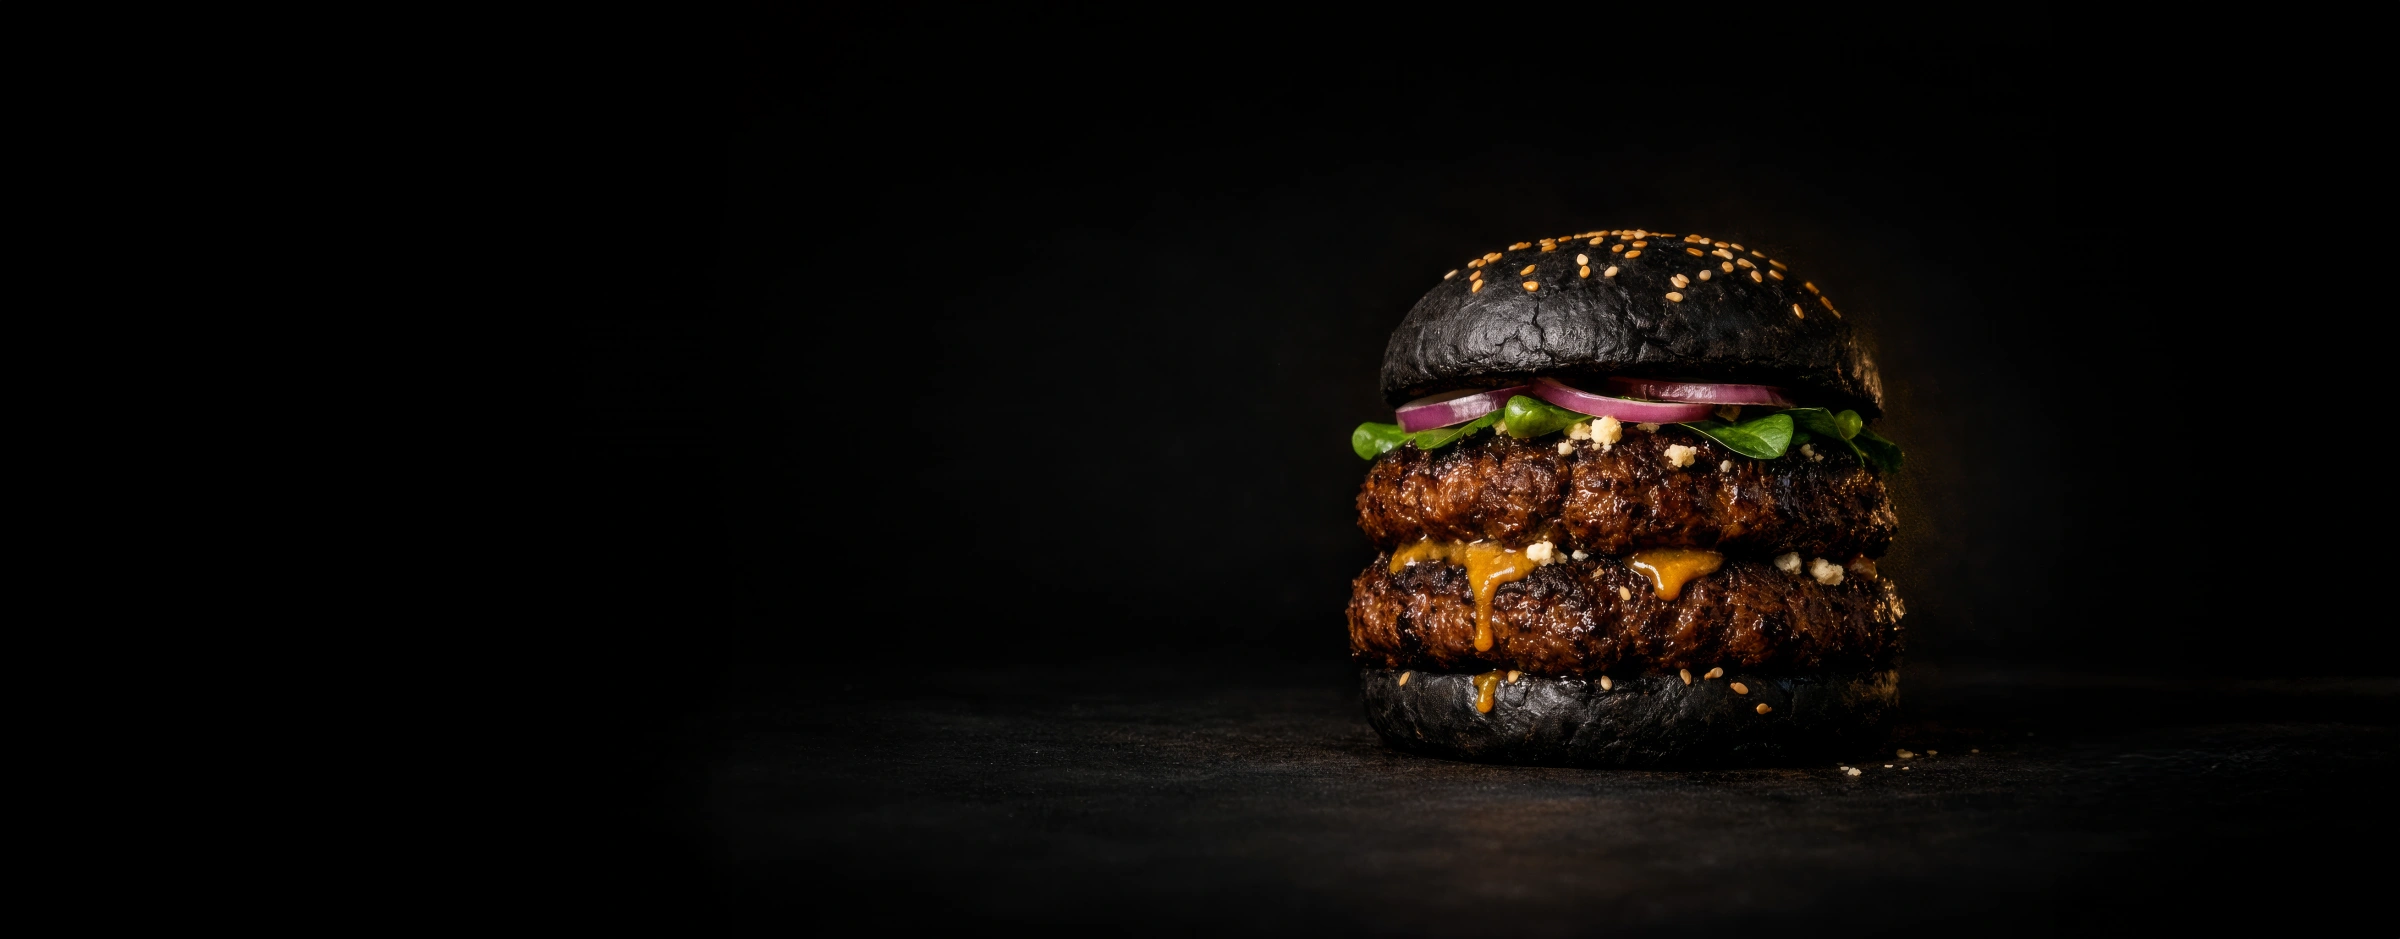
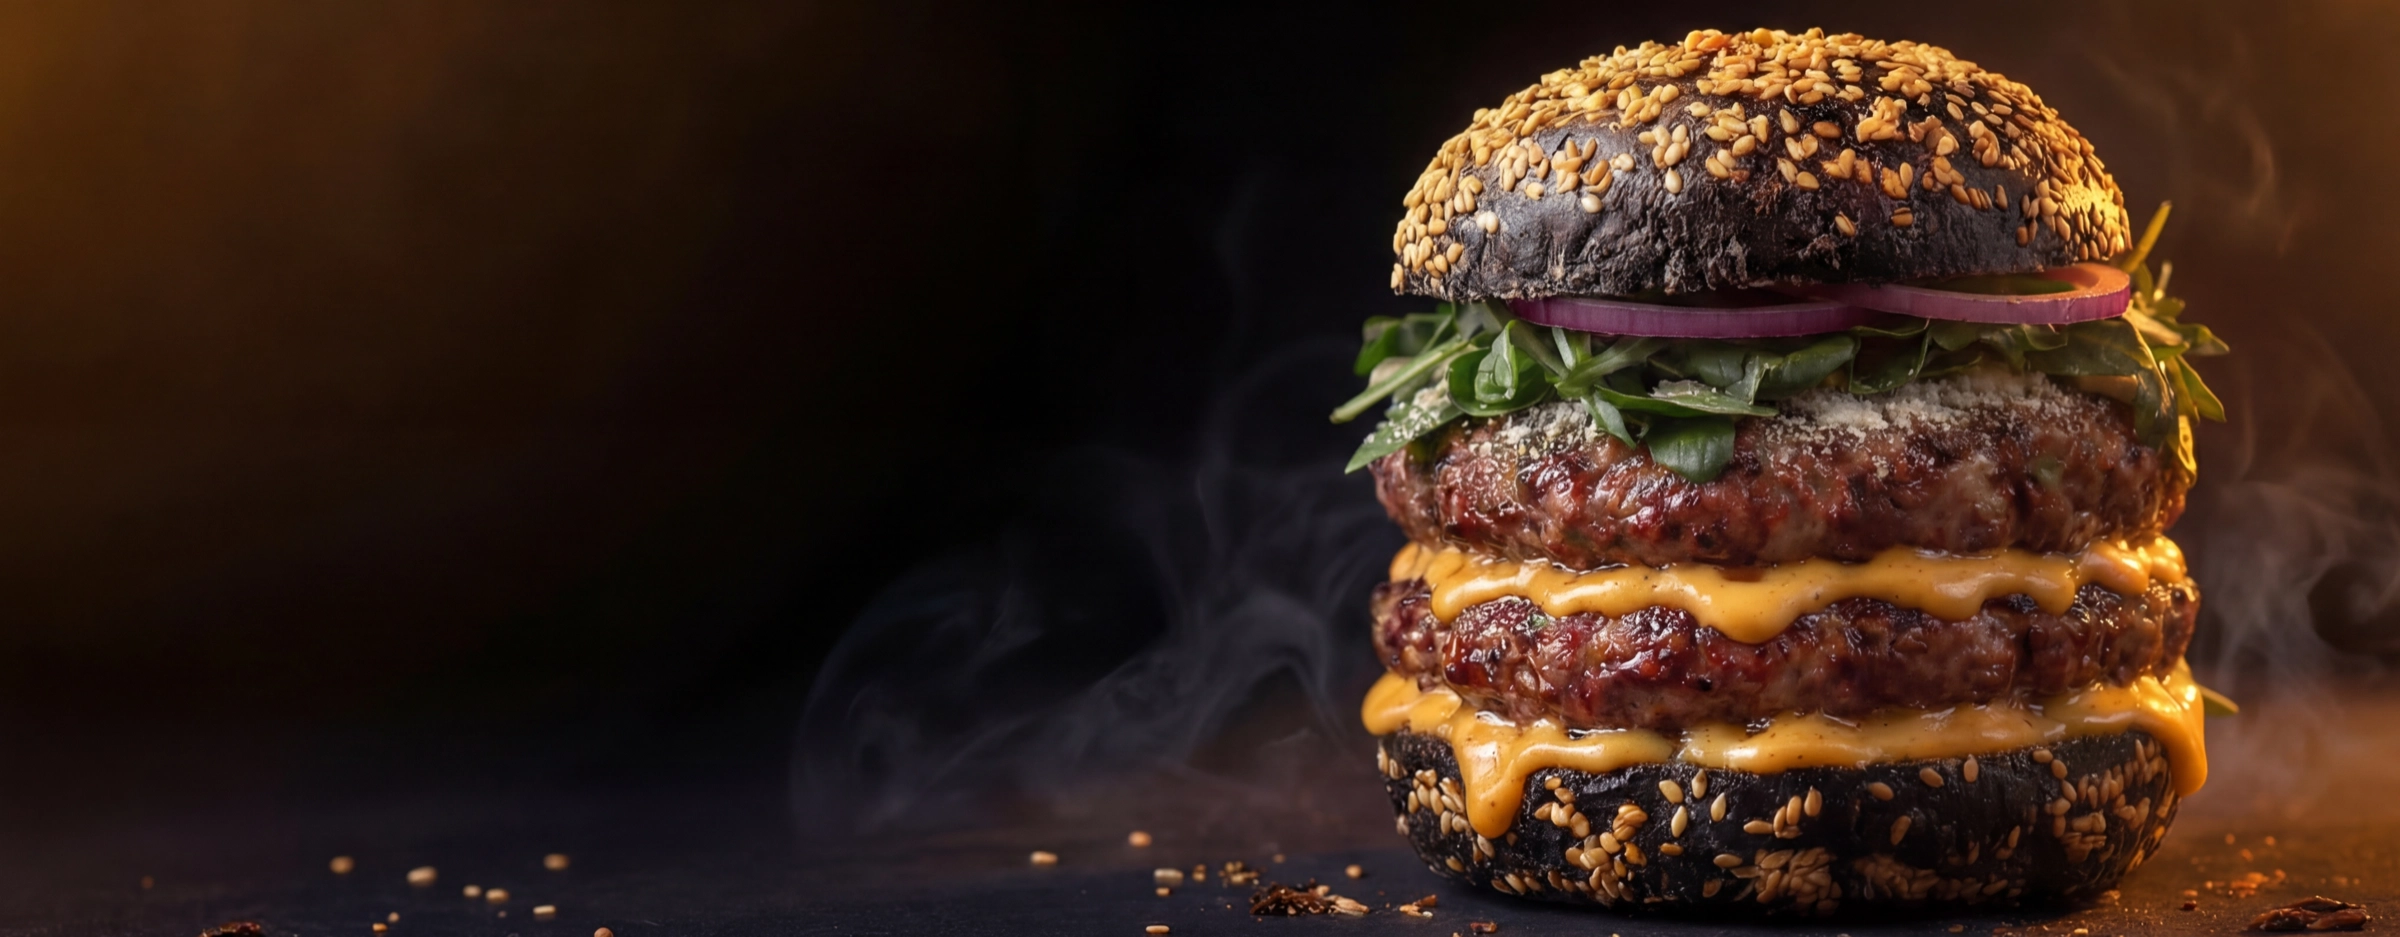
feat: hero qualité max, image myfitcheese, desserts coming soon carte

diff --git a/components/sections/carte-menu.tsx b/components/sections/carte-menu.tsx
@@ -134,43 +134,6 @@ const categories: Category[] = [
     ],
   },
   {
-    id: "desserts",
-    label: "Desserts",
-    tagline: "Gourmandise et proteines",
-    products: [
-      {
-        name: "Cookie prot\u00e9in\u00e9",
-        price: 3.99,
-        image: "/images/photos-references/produits-source/desserts/cookie-proteine.png",
-        macros: { kcal: 273, prot: 26, gluc: 27, lip: 9 },
-        description: "Cookie fondant, whey, pepites de chocolat",
-      },
-      {
-        name: "Overnight STRICT",
-        price: 4.99,
-        image: "/images/photos-references/produits-source/desserts/overnight-strict.png",
-        macros: { kcal: 470, prot: 52.9, gluc: 52.5, lip: 9.4 },
-        highlight: true,
-        badge: "53G PROT",
-        description: "Flocons, whey, fruits frais, prepare la veille",
-      },
-      {
-        name: "Tiramisu prot\u00e9in\u00e9",
-        price: 3.5,
-        image: "/images/photos-references/produits-source/desserts/tiramisu-proteine.png",
-        macros: { kcal: 252, prot: 24, gluc: 14, lip: 8 },
-        description: "Mascarpone allege, biscuit, cacao, whey",
-      },
-      {
-        name: "Milkshake prot\u00e9in\u00e9",
-        price: 3.0,
-        image: "/images/photos-references/produits-source/desserts/milkshake-proteine.png",
-        macros: { kcal: 215, prot: 29, gluc: 12, lip: 6 },
-        description: "Lait, whey, fruits de saison",
-      },
-    ],
-  },
-  {
     id: "boissons",
     label: "Boissons",
     tagline: "Zero sucre, zero compromis",
@@ -658,6 +621,102 @@ export default function CarteMenu() {
             </section>
           ))}
         </div>
+
+        {/* ── Desserts — Coming Soon ── */}
+        <motion.div
+          className="relative overflow-hidden"
+          initial={prefersReducedMotion ? undefined : "hidden"}
+          whileInView="visible"
+          viewport={{ once: true, margin: "-80px" }}
+          variants={prefersReducedMotion ? undefined : fadeUp}
+          style={{
+            marginTop: "clamp(3rem, 5vw, 5rem)",
+            padding: "clamp(2rem, 4vw, 3.5rem)",
+            borderRadius: "var(--radius-large)",
+            border: "1px solid oklch(0.67 0.15 68 / 0.15)",
+            background:
+              "linear-gradient(135deg, oklch(0.18 0.008 60) 0%, oklch(0.16 0.012 65) 100%)",
+          }}
+        >
+          {/* Subtle cuivre glow — top-right */}
+          <div
+            className="absolute pointer-events-none"
+            style={{
+              top: "-40%",
+              right: "-10%",
+              width: "50%",
+              height: "120%",
+              background:
+                "radial-gradient(ellipse at center, oklch(0.67 0.15 68 / 0.04), transparent 70%)",
+            }}
+          />
+
+          <div className="relative flex flex-col gap-4 sm:flex-row sm:items-center sm:justify-between">
+            <div className="flex flex-col gap-3">
+              <div className="flex items-center gap-3">
+                <h2
+                  className="text-ivoire"
+                  style={{
+                    fontFamily: "var(--font-heading)",
+                    fontSize: "var(--font-size-h3)",
+                    fontWeight: 700,
+                  }}
+                >
+                  Desserts
+                </h2>
+                <span
+                  className="text-cuivre"
+                  style={{
+                    padding: "0.2rem 0.75rem",
+                    borderRadius: "var(--radius-pill)",
+                    border: "1px solid oklch(0.67 0.15 68 / 0.3)",
+                    backgroundColor: "oklch(0.67 0.15 68 / 0.08)",
+                    fontFamily: "var(--font-heading)",
+                    fontWeight: 700,
+                    fontSize: "0.6875rem",
+                    letterSpacing: "var(--letter-spacing-uppercase)",
+                  }}
+                >
+                  BIENT&Ocirc;T
+                </span>
+              </div>
+              <p
+                className="text-sable max-w-[36rem]"
+                style={{
+                  fontSize: "var(--font-size-body)",
+                  lineHeight: "var(--line-height-relaxed)",
+                }}
+              >
+                Cookies, overnight oats, tiramisu — tout fait maison, tout
+                protein&eacute;. Le dessert qui respecte tes macros, sans
+                sacrifier le plaisir.
+              </p>
+            </div>
+
+            <div
+              className="bg-cuivre shrink-0 hidden sm:block"
+              style={{
+                width: "2px",
+                height: "3.5rem",
+                borderRadius: "var(--radius-pill)",
+                opacity: 0.15,
+              }}
+            />
+
+            <p
+              className="text-pierre shrink-0"
+              style={{
+                fontFamily: "var(--font-heading)",
+                fontSize: "var(--font-size-small)",
+                fontWeight: 500,
+                letterSpacing: "var(--letter-spacing-wide)",
+                whiteSpace: "nowrap",
+              }}
+            >
+              Arrive tr&egrave;s vite sur la carte
+            </p>
+          </div>
+        </motion.div>
       </div>
 
       {/* ── Bottom CTA ── */}

diff --git a/app/la-carte/page.tsx b/app/la-carte/page.tsx
@@ -4,7 +4,7 @@ import CarteMenu from "@/components/sections/carte-menu";
 export const metadata: Metadata = {
   title: "La Carte | StrictFood",
   description:
-    "Decouvre notre carte : burgers, wraps, snacks et desserts proteines. 0% huile de cuisson, macros affichees sur chaque produit.",
+    "Decouvre notre carte : burgers, wraps, snacks et boissons. 0% huile de cuisson, macros affichees sur chaque produit.",
 };
 
 export default function LaCartePage() {
